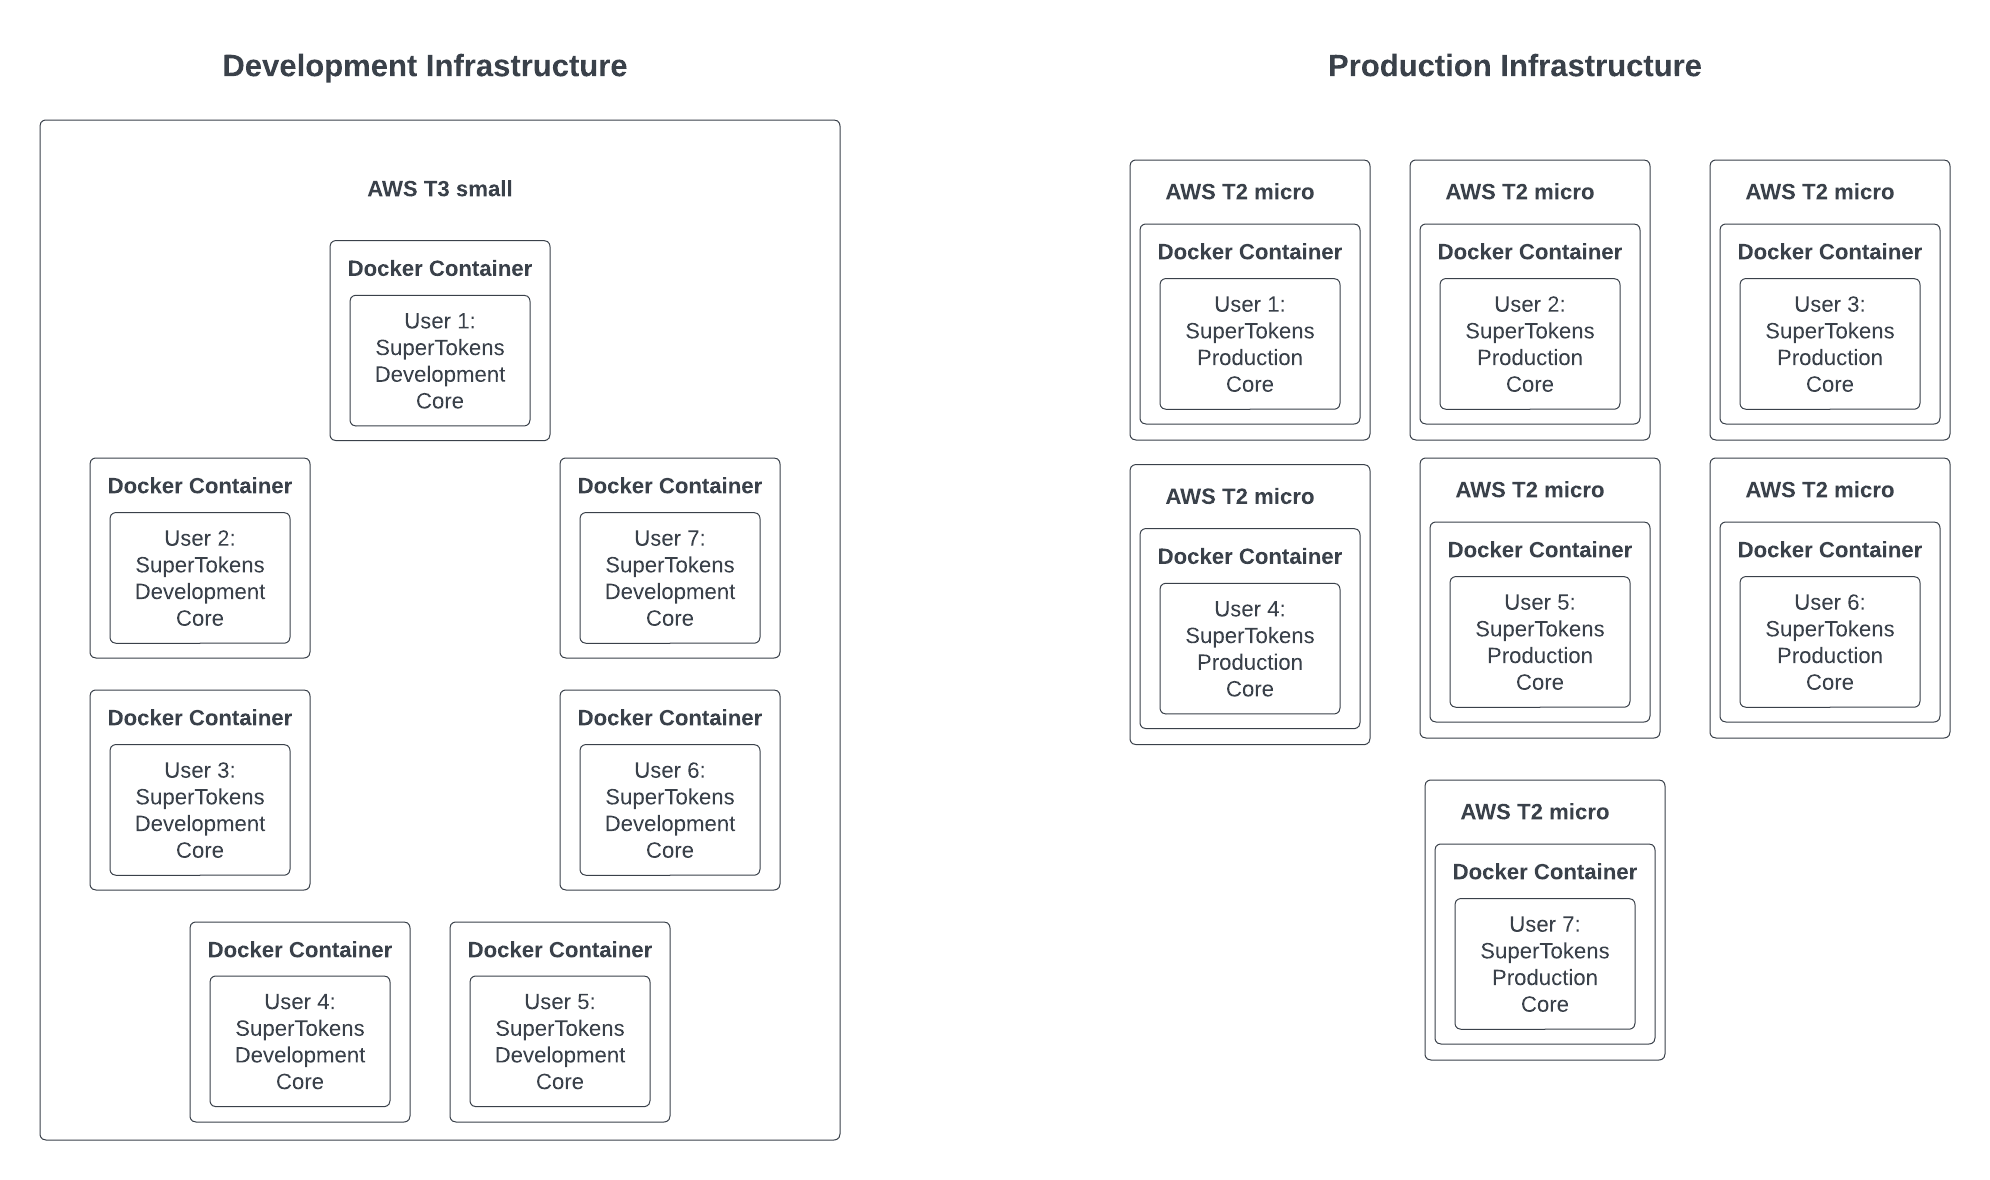
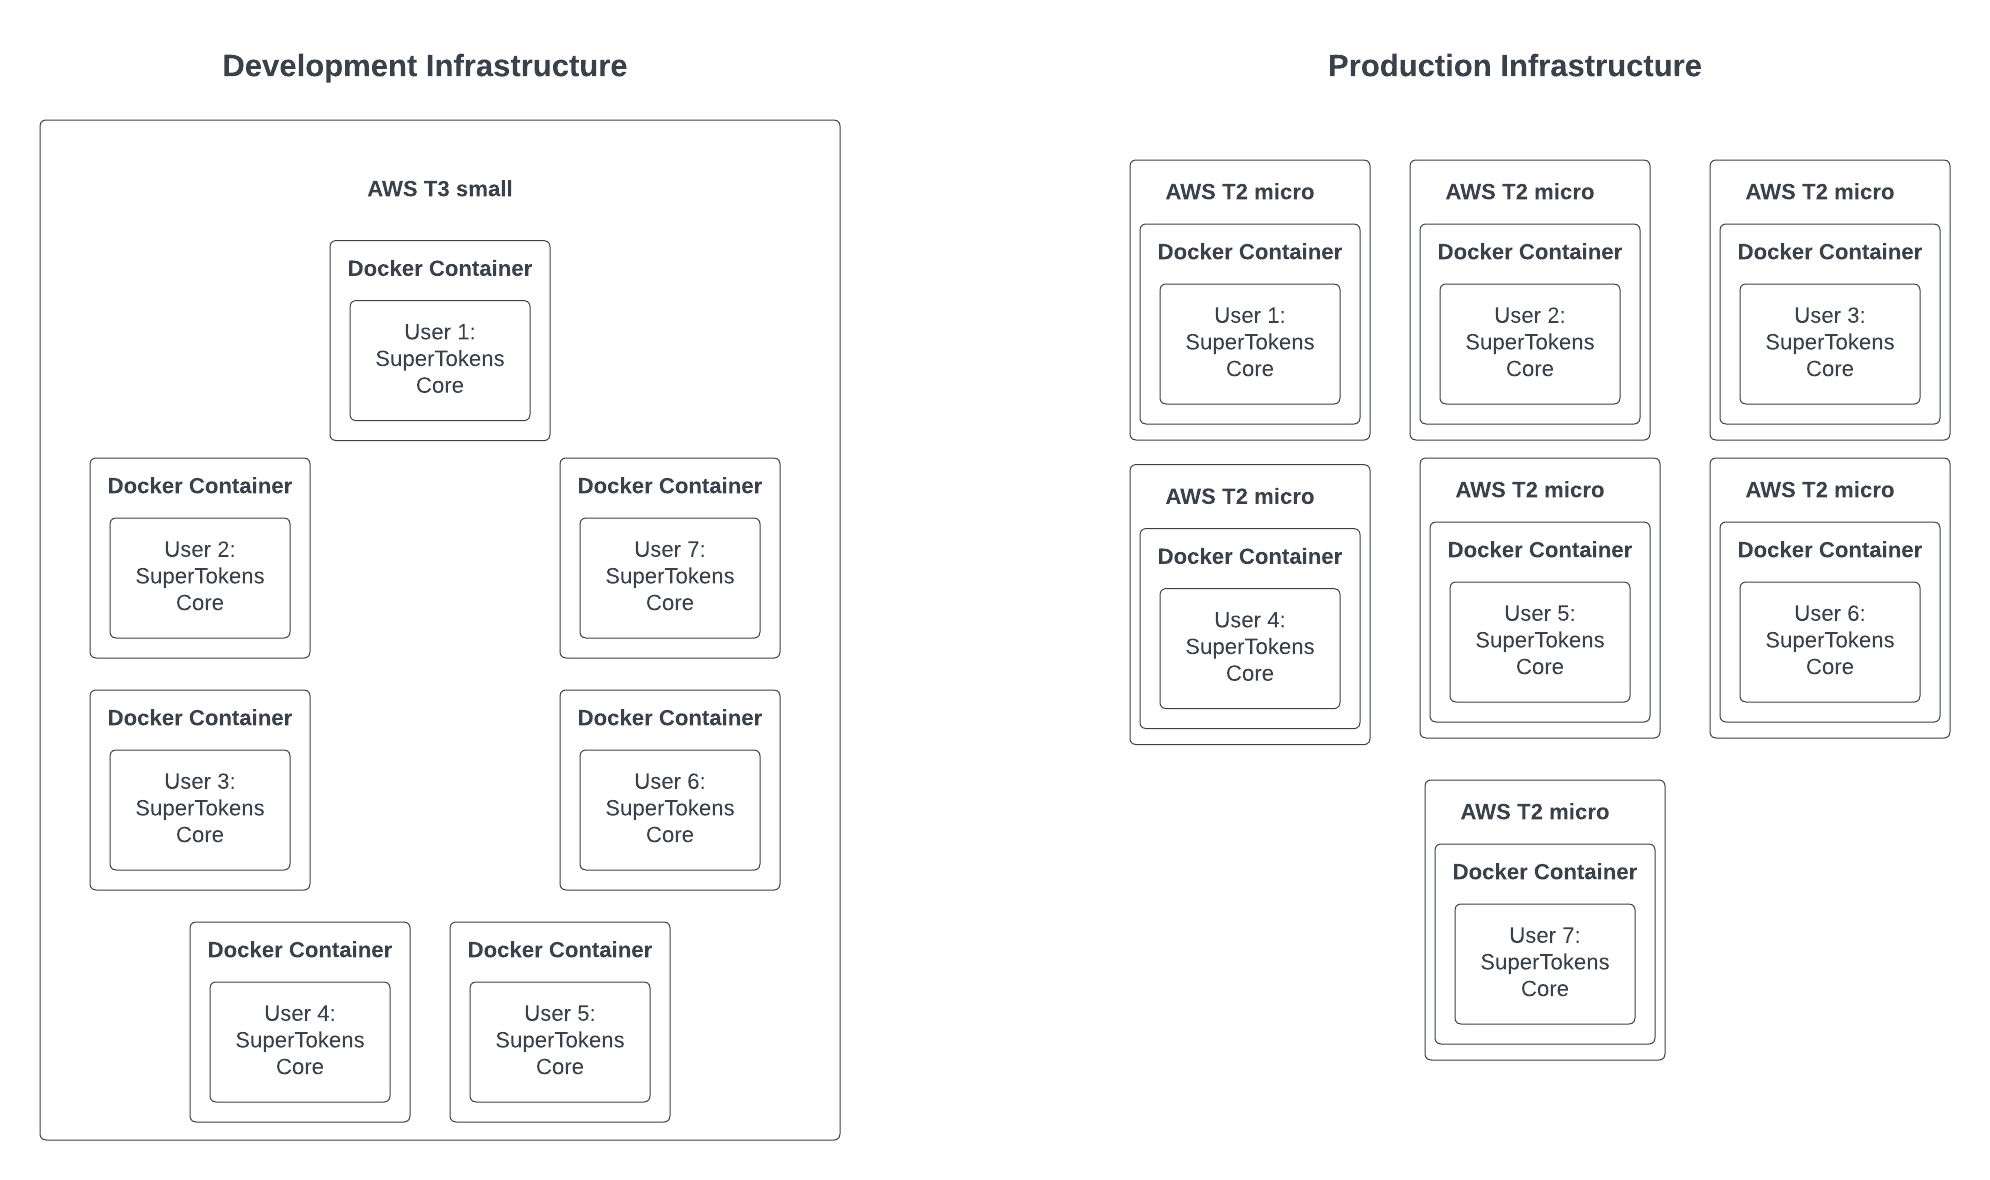
adds bhumil feedback

diff --git a/content/how-we-cut-our-aws-costs/index.md b/content/how-we-cut-our-aws-costs/index.md
@@ -1,19 +1,19 @@
 ---
-title: How we cut our AWS costs by more than 60%
-date: "2023-09-14"
+title: How we cut our AWS costs by more than 50%
+date: "2023-09-19"
 description: "Part 1 in a series of  how we were able to cut down our AWS infrastructure costs by more than 60%"
 cover: "how-we-cut-our-aws-costs.png"
 category: "programming"
 author: "Joel Coutinho"
 ---
 
-In this two part series we will go over SuperTokens manged service infrastructure and the changes we made to cut our AWS billing by ore than 60%. 
+In this two part series we will go over SuperTokens manged service infrastructure and the changes we made to cut our AWS billing by more than 50%. 
 
 **Part 1: How does the SuperTokens managed service work and why does it need to change.**
 
 ## Introduction
 
-The SuperTokens managed service powers numerous web products, mobile applications, and services and is primarily hosted on AWS. Our infrastructure leverages a suite of AWS tools, including AWS RDS for our database, EC2 instances for SuperToken deployments, and System Manager for instance management and automation. Over time, we've refined our deployment cycle to enhance stability, fault tolerance, and cost efficiency but our most recent update has yielded our biggest savings yet, slashing costs by over 60% while achieving [record scalability](https://twitter.com/supertokensio/status/1701600309397852270). 
+The SuperTokens managed service powers numerous web products, mobile applications, and services and is primarily hosted on AWS. Our infrastructure leverages a suite of AWS tools, including AWS RDS for our database, EC2 instances for SuperToken deployments, and System Manager for instance management and automation. Over time, we've refined our deployment cycle to enhance stability, fault tolerance, and cost efficiency but our most recent update has yielded our biggest savings yet, slashing costs by over 50% while achieving [record scalability](https://twitter.com/supertokensio/status/1701600309397852270). 
 
 
 ## What was the SuperTokens infrastructure like?
@@ -22,13 +22,13 @@ To gain a better understanding of the SuperTokens infrastructure, it's crucial t
 
 ![SuperTokens Deployment process](./supertokens-deployment-process.png)
 
-SuperTokens deploys two instances of the SuperTokens core for each user, consisting of a development and production core instance. Here's the breakdown of each:
+SuperTokens allow users to use the SuperTokens SAAS service in two modes: development and production. Here’s the breakdown of each:
 
-**Development SuperTokens Core:**
-The Development core instance runs on an *EC2 T3 small* instance. To maximize resource utilization, we deploy up to seven development core instances on the same *T3 small* instance. This configuration results in a remarkably swift setup for new development cores, typically taking a mere 15-20 seconds and is suitable for testing purposes.
+**Development Mode:**
+The Development mode runs on an *EC2 T3.small* instance. To maximize resource utilization, we deploy up to seven development core instances on the same *T3.small* instance. This configuration results in a remarkably swift setup for new development cores, typically taking a mere 15-20 seconds and is suitable for testing purposes.
 
-**Production SuperTokens Core:**
-In contrast, the Production SuperTokens core follows a different deployment strategy. Each production SuperTokens core instance is hosted on a dedicated *EC2 T2 micro* instance. This means that when a new production SuperTokens core instance needs to be created, a fresh *T2 micro* instance is spun up, and the operating system with Docker needs to be installed. Consequently, this process requires additional time compared to the development deployment method, with an average deployment time of around 4-5 minutes.
+**Production mode:**
+In contrast, production mode follows a different deployment strategy. Each production mode deployment is hosted on a dedicated *EC2 T2.micro* instance. This means that when a new production SuperTokens core instance needs to be created, a fresh *T2.micro* instance is spun up, and docker is installed on it using System Manager. Consequently, this process requires additional time compared to the development mode, with an average deployment time of around 4-5 minutes.
 
 
 For example, if 7 users were to sign up for SuperTokens, it would look like the following:
